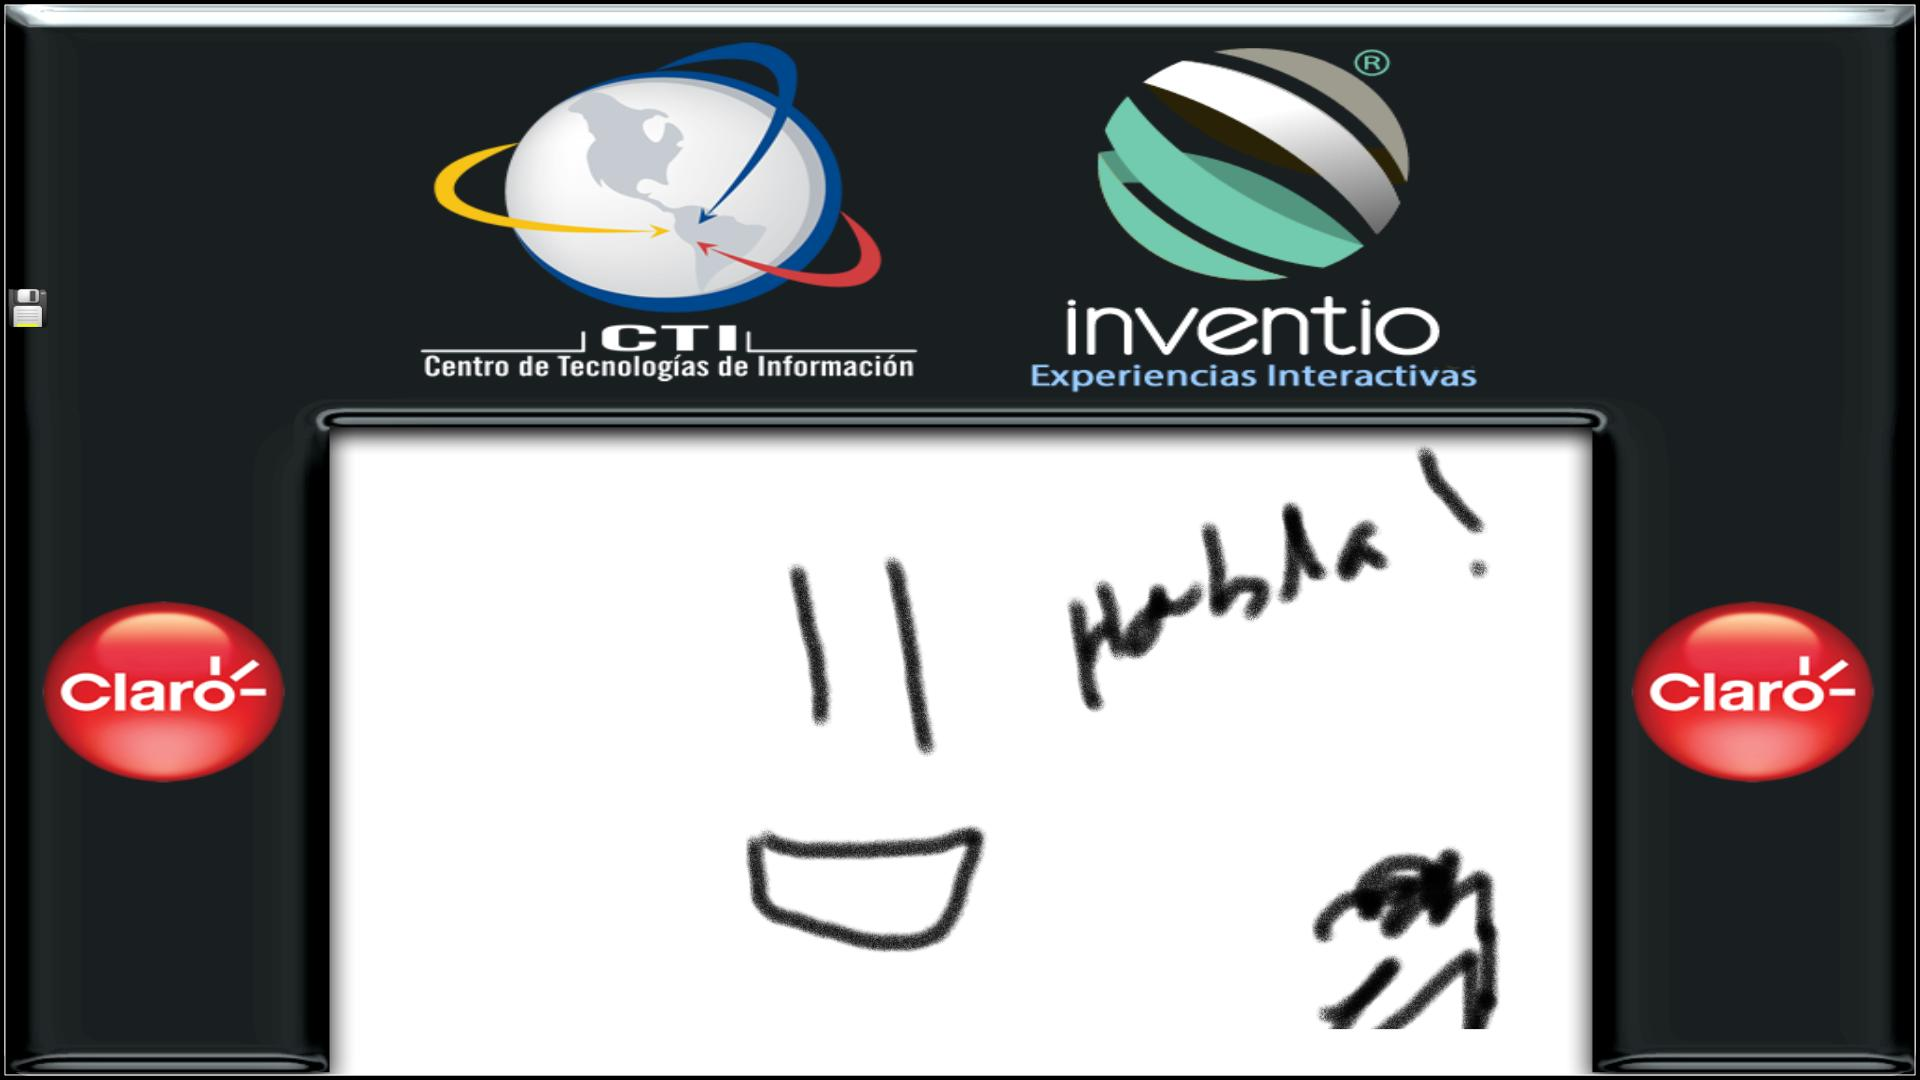
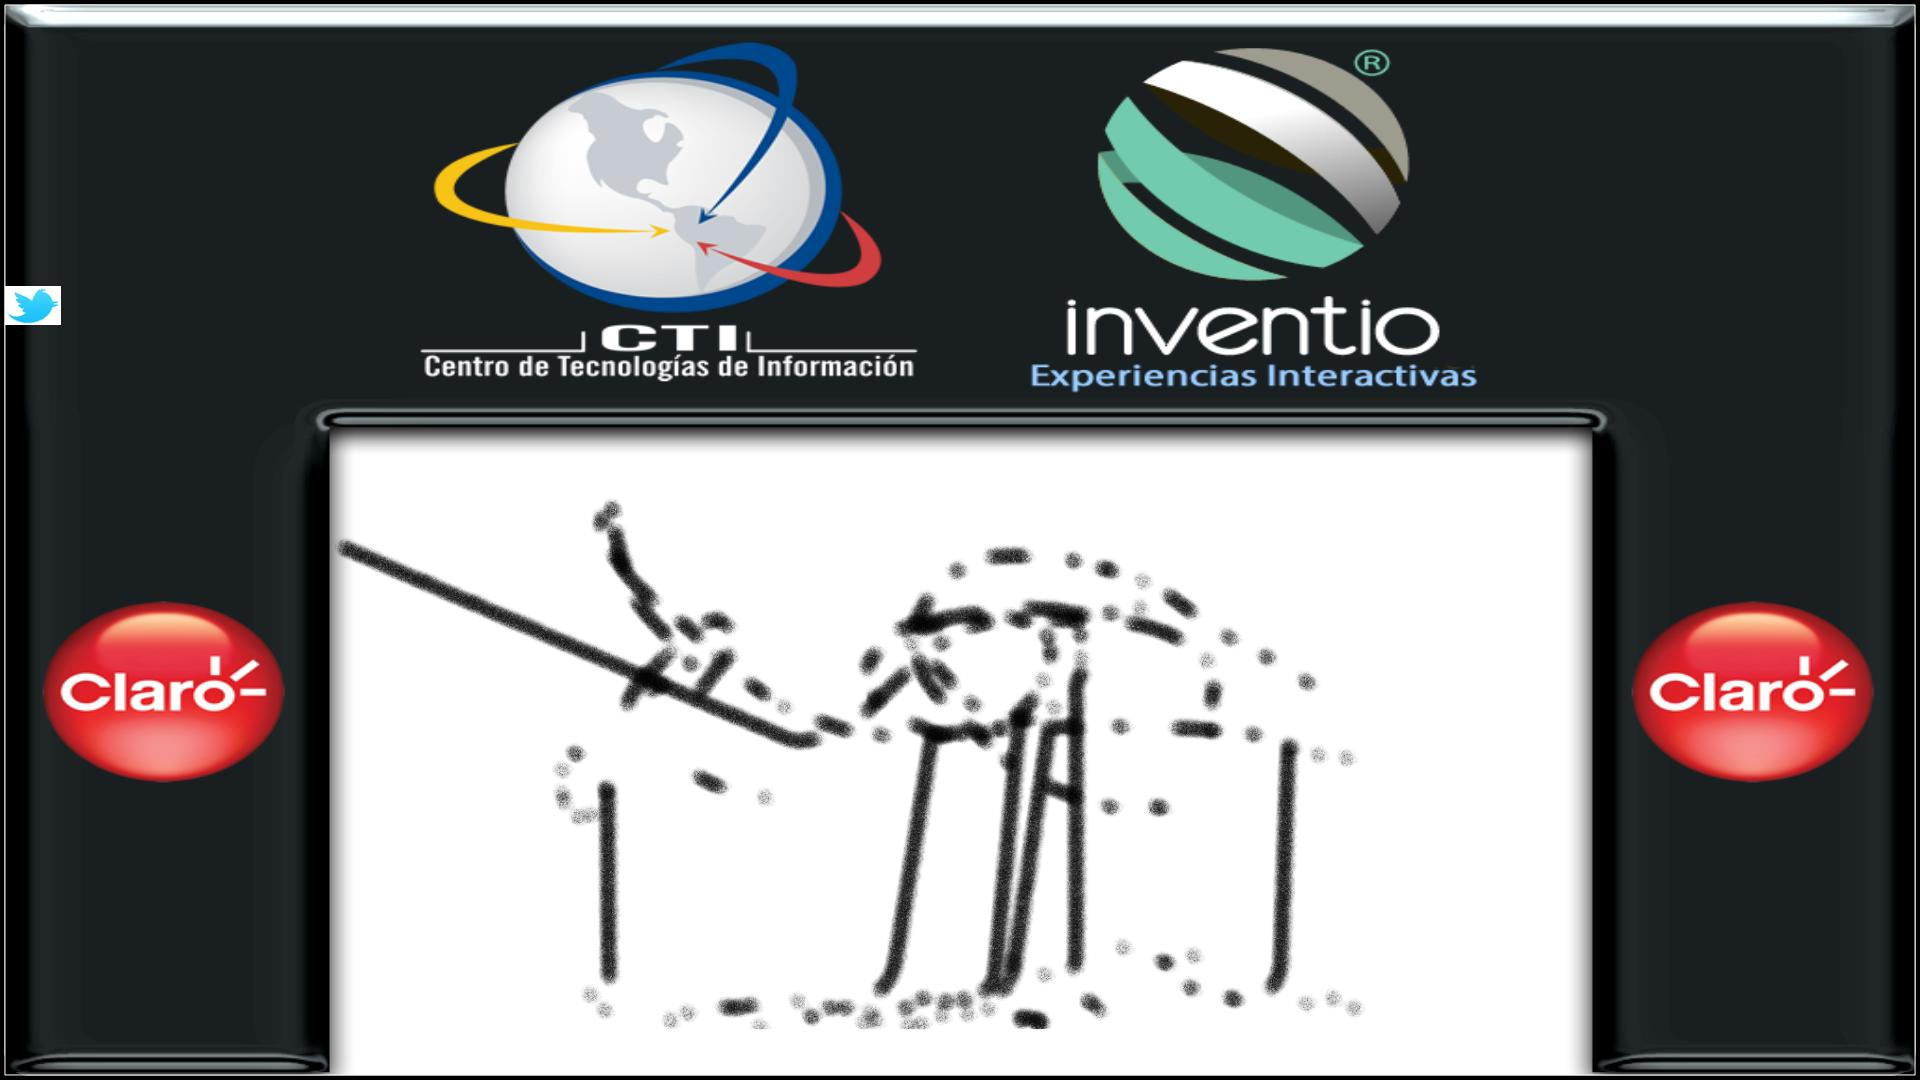
algo

diff --git a/mt4j-desktop/examples/advanced/drawing/MainDrawingScene.java b/mt4j-desktop/examples/advanced/drawing/MainDrawingScene.java
@@ -169,7 +169,7 @@ public class MainDrawingScene extends AbstractScene {
         });*/
         
         //Save to file button
-        PImage floppyIcon = pa.loadImage(imagesPath + "floppy.png");
+        PImage floppyIcon = pa.loadImage(imagesPath + "t.png");
         final MTImageButton floppyButton = new MTImageButton(pa, floppyIcon);
         frame.addChild(floppyButton);
         floppyButton.translate(new Vector3D(-50f, 260,0));
